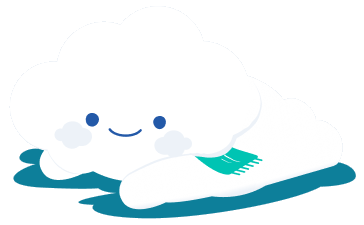
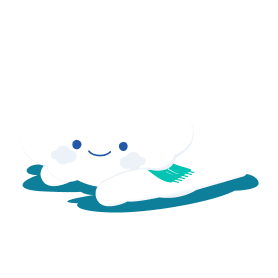
Replace 18 Mooca poses and add Cogito card
Preserve existing catalog content and pose assignments. Verified TypeScript/Vite build and 114 Playwright regression tests.

diff --git a/src/characters.ts b/src/characters.ts
@@ -27,12 +27,27 @@ export const characters=Object.fromEntries(names.map((name,index)=>[name,{
  name,image:sheet,width:158,height:158,sourceKind:'supplied-character-sheet',
  tile:{x:columns[index%3],y:rows[Math.floor(index/3)],sheetWidth:609,sheetHeight:2048}
 }])) as Record<CharacterName,Character>;
-// The user's SVG includes a higher-resolution, separately embedded Relaxing PNG.
-characters.Relaxing={
- name:'Relaxing',image:new URL('./assets/mooca/relaxing.png',import.meta.url).href,
- width:364,height:225,sourceKind:'supplied-reference',
- sourceNode:'https://www.figma.com/design/3PGPbkxDkElsmp7WXKn5nx/?node-id=2012-2840'
-};
+// Separate PNG artwork supplied by the owner on 2026-11-09.
+// Preserve original pose names; three missing poses continue using the unchanged sheet.
+characters['Balloon Explorer']={name:'Balloon Explorer',image:new URL('./assets/mooca/balloon-explorer.png',import.meta.url).href,width:278,height:278,sourceKind:'supplied-reference'};
+characters['Bench Break']={name:'Bench Break',image:new URL('./assets/mooca/bench-break.png',import.meta.url).href,width:278,height:278,sourceKind:'supplied-reference'};
+characters['Bookworm']={name:'Bookworm',image:new URL('./assets/mooca/bookworm.png',import.meta.url).href,width:278,height:278,sourceKind:'supplied-reference'};
+characters['Caring Listener']={name:'Caring Listener',image:new URL('./assets/mooca/caring-listener.png',import.meta.url).href,width:278,height:278,sourceKind:'supplied-reference'};
+characters['Cloud Rider']={name:'Cloud Rider',image:new URL('./assets/mooca/cloud-rider.png',import.meta.url).href,width:278,height:278,sourceKind:'supplied-reference'};
+characters['Cozy Reader']={name:'Cozy Reader',image:new URL('./assets/mooca/cozy-reader.png',import.meta.url).href,width:278,height:278,sourceKind:'supplied-reference'};
+characters['Curious']={name:'Curious',image:new URL('./assets/mooca/curious.png',import.meta.url).href,width:278,height:278,sourceKind:'supplied-reference'};
+characters['Friendly Doctor']={name:'Friendly Doctor',image:new URL('./assets/mooca/friendly-doctor.png',import.meta.url).href,width:278,height:278,sourceKind:'supplied-reference'};
+characters['Friendly Stand']={name:'Friendly Stand',image:new URL('./assets/mooca/friendly-stand.png',import.meta.url).href,width:278,height:278,sourceKind:'supplied-reference'};
+characters['Glowing Heart']={name:'Glowing Heart',image:new URL('./assets/mooca/glowing-heart.png',import.meta.url).href,width:278,height:278,sourceKind:'supplied-reference'};
+characters['Mirror Peek']={name:'Mirror Peek',image:new URL('./assets/mooca/mirror-peek.png',import.meta.url).href,width:278,height:278,sourceKind:'supplied-reference'};
+characters['Moon Dreamer']={name:'Moon Dreamer',image:new URL('./assets/mooca/moon-dreamer.png',import.meta.url).href,width:285,height:285,sourceKind:'supplied-reference'};
+characters['Quiet Moment']={name:'Quiet Moment',image:new URL('./assets/mooca/quiet-moment.png',import.meta.url).href,width:278,height:278,sourceKind:'supplied-reference'};
+characters['Rainy Day']={name:'Rainy Day',image:new URL('./assets/mooca/rainy-day.png',import.meta.url).href,width:278,height:278,sourceKind:'supplied-reference'};
+characters['Relaxing']={name:'Relaxing',image:new URL('./assets/mooca/relaxing.png',import.meta.url).href,width:278,height:278,sourceKind:'supplied-reference'};
+characters['Safe Bubble']={name:'Safe Bubble',image:new URL('./assets/mooca/safe-bubble.png',import.meta.url).href,width:278,height:278,sourceKind:'supplied-reference'};
+characters['Shy Smile']={name:'Shy Smile',image:new URL('./assets/mooca/shy-smile.png',import.meta.url).href,width:290,height:278,sourceKind:'supplied-reference'};
+characters['Sunny Friend']={name:'Sunny Friend',image:new URL('./assets/mooca/sunny-friend.png',import.meta.url).href,width:278,height:278,sourceKind:'supplied-reference'};
+characters.Relaxing.sourceNode='https://www.figma.com/design/3PGPbkxDkElsmp7WXKn5nx/?node-id=2012-2840';
 const assignments:CharacterName[]=[
  'Shy Smile','Relaxing','Heart Hug','Curious','Bench Break','Quiet Moment',
  'Balloon Explorer','Moon Dreamer','Bookworm','Caring Listener','Cloud Rider',
@@ -107,3 +122,6 @@ const lot2Assignments:Record<string,CharacterName>={
   "catalog-v1:ooca-106": "Relaxing"
 };
 for(const [id,name] of Object.entries(lot2Assignments))characterByQuote[id]=characters[name];
+
+// Cogito: a curious pose for reflection on thought and existence.
+characterByQuote['catalog-v1:ooca-107']=characters.Curious;

diff --git a/tests/mooca-card.spec.ts b/tests/mooca-card.spec.ts
@@ -29,9 +29,9 @@ test('Mooca: CALM uses exact Relaxing asset, keeps original tags and matches exp
  await expect(active(page).locator('.quote-thai')).toHaveText(q.text);
  await expect(active(page).locator('.quote-tags li')).toHaveText(q.tags);
  const img=active(page).getByRole('img',{name:'Mooca Relaxing'});
- await expect.poll(()=>img.evaluate(el=>(el as HTMLImageElement).naturalWidth)).toBe(364);
+ await expect.poll(()=>img.evaluate(el=>(el as HTMLImageElement).naturalWidth)).toBe(278);
  const geometry=await img.evaluate(el=>{const r=el.getBoundingClientRect();return{width:r.width,height:r.height,naturalHeight:(el as HTMLImageElement).naturalHeight};});
- expect(geometry.naturalHeight).toBe(225);expect(geometry.width/geometry.height).toBeCloseTo(364/225,2);
+ expect(geometry.naturalHeight).toBe(278);expect(geometry.width/geometry.height).toBeCloseTo(278/278,2);
  await expect(active(page).locator('.quote-headword')).toHaveText(q.headword);
  const text=await active(page).locator('.quote-thai').boundingBox();
  const picture=await img.boundingBox();expect(text!.y+text!.height).toBeLessThanOrEqual(picture!.y+1);
@@ -52,7 +52,7 @@ test('Mooca: CALM uses exact Relaxing asset, keeps original tags and matches exp
  await expect(active(page)).toHaveAttribute('data-quote-id',q.id);
  for(const width of [320,360,390,1440]){
   await page.setViewportSize({width,height:844});await noOverflow(page);
-  const bounds=await img.boundingBox();expect(bounds!.width/bounds!.height).toBeCloseTo(364/225,2);
+  const bounds=await img.boundingBox();expect(bounds!.width/bounds!.height).toBeCloseTo(278/278,2);
  }
 });
 test('Mooca: long sentence remains complete with its matched character in browse and expanded views',async({page})=>{

diff --git a/src/assets/mooca/README.md b/src/assets/mooca/README.md
@@ -1,15 +1,11 @@
 # Mooca artwork provenance
 
-This prototype uses artwork supplied by the project owner. It does not claim that these are fresh Figma exports.
+18 standalone PNGs supplied by the owner in Downloads/OOCA/18/Mooca replaced the matching poses on 2026-11-09. Their bytes are copied unchanged; the preview- filename prefix is removed. Character names, card assignments, text and tags remain unchanged. Original files in Downloads are untouched.
 
-- character-sheet.png is the unchanged 609 x 2048 Character Sheet.png supplied in the conversation. Its header and labels identify 21 poses. The app displays complete 158 x 158 artwork tiles as CSS sprites at no more than 148 CSS px (136 px for sentence cards), preserving their pale backgrounds and original pixels. The images can appear softer on high-density displays; original transparent exports are preferable for production.
-- relaxing.png is the unchanged 364 x 225 PNG embedded in the supplied Mooca-Rest-card.svg, extracted by decoding its base64 image data. CALM uses this higher-resolution reference and preserves its aspect ratio.
-- Character names are exact labels from the supplied sheet. No extra six poses were invented to reach the requested 27.
-- The exact supplied Relaxing node is https://www.figma.com/design/3PGPbkxDkElsmp7WXKn5nx/?node-id=2012-2840 . Exact node IDs for the other 20 poses are not available. The sheet reference is https://www.figma.com/design/3PGPbkxDkElsmp7WXKn5nx/?node-id=2012-2771 . Live Figma verification was unavailable because its MCP read quota was reached.
-- All 53 catalog IDs have a semantic pose assignment in src/characters.ts. The rationale and 10 mappings recommended for human review are recorded in evidence/Mooca-mapping-53.json. Pose coordinates are in evidence/Mooca-poses-21.json.
+All PNGs are 278 x 278 except Moon Dreamer (285 x 285) and Shy Smile (290 x 278). The app preserves those native aspect ratios.
 
-Source checksums (SHA-256):
-- character-sheet.png: 75A1BA3A4F2B5E4E8F4DAD5982A9A7D54012CF9D9A26FB1B8466D03289C059F7
-- relaxing.png: B5BA3D0D57B475E0B9E6AEA060DB0E05F86B3A5C2570B5DA93E68D8A916A6723
+Heart Hug, Back View and Playful Tilt are not in the supplied folder and still use the original character-sheet.png sprite tiles. No missing pose was invented. The registry still has 21 distinct poses.
 
-All artwork is bundled locally. No character service or remote tracking is introduced. Existing content tags, quote text, and stored history snapshots are not rewritten by the character layer.
+The previously verified Relaxing Figma node is https://www.figma.com/design/3PGPbkxDkElsmp7WXKn5nx/?node-id=2012-2840. Other individual node IDs are not independently verified. The source folder was supplied by the owner; this is not a claim of fresh Figma export verification.
+
+The original sheet is unchanged (SHA-256 75A1BA3A4F2B5E4E8F4DAD5982A9A7D54012CF9D9A26FB1B8466D03289C059F7). Artwork is local; no remote service or tracking is introduced. See replacement-manifest.json for per-file checksums.

diff --git a/evidence/release-mooca-107.md b/evidence/release-mooca-107.md
@@ -1,0 +1,21 @@
+# Mooca artwork and Cogito release — 2026-11-09
+
+## Scope
+
+- Add catalog-v1:ooca-107: Cogito, ergo sum / ฉันคิด ฉันจึงมีอยู่, status 1. Thai pronunciation is labelled draft.
+- Preserve all 106 previously published catalog records exactly.
+- Replace 18 Mooca poses with owner-supplied standalone PNGs, preserving pose names, card mappings and original image bytes. Remove preview- filename prefix.
+- Heart Hug, Back View and Playful Tilt retain the original sheet artwork because separate files were not supplied.
+- No changes to app behavior, Calendar configuration or storage schema.
+
+## Verification before deployment
+
+Clean release checkout based on 4a9fca0cc1d1b9956a82ca810df4a27e279984dd; existing remote config and ignore rules retained.
+
+- npm ci: passed, audit reported 0 vulnerabilities.
+- npm run build: passed (TypeScript and Vite).
+- Full Playwright regression: 114 passed, 0 failed, 0 skipped (10.7 minutes), November 9 2026.
+- Covers all 107 visible cards and matched artwork, expanded reading, swipe/tap, skip/finish, saved history, failure handling, mobile and desktop layout and welcome screen.
+- Artwork source and destination checksums match; see src/assets/mooca/replacement-manifest.json.
+
+Browser tests use Chromium emulation, not a physical mobile device. Google Calendar service tests are mocks; real Calendar event creation remains unconfigured. Public deployment and post-deploy checks are separate from the pre-deploy results above.
